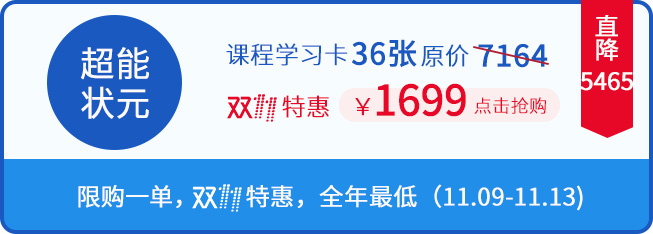
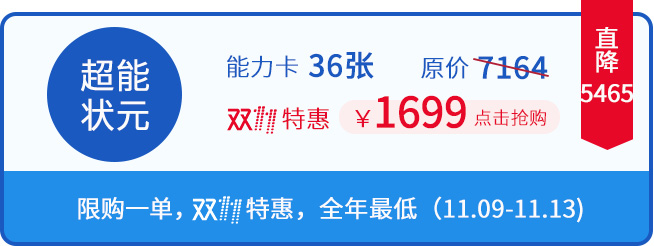
update: 文案和图片

diff --git a/containers/learncard/BuyCard.js b/containers/learncard/BuyCard.js
@@ -9,15 +9,15 @@ export default class extends React.Component {
       <Layout>
         <div className='out'>
           <div className='buy-card-page'>
-            <h1 className='header'>邀请好友购买，免费再得学习卡</h1>
-            <p className='red-content'>1.09 -11.13 期间，成功购买学习卡后，享专属权利------邀请好友成功购买任意学习卡，马上获得 1 张课程学习卡（原价 ¥199），多邀多得！</p>
+            <h1 className='header'>邀请好友购买，免费再得能力卡</h1>
+            <p className='red-content'>1.09 -11.13 期间，成功购买能力卡后，享专属权利------邀请好友成功购买任意能力卡，马上获得 1 张课程能力卡（原价 ¥199），多邀多得！</p>
             <p className='main-content'>*好友购买时在推荐人一栏填写你的手机号即可。</p>
             <div className='share-button'>
-              <Button half text={'立即邀请好友'} color={'white'} bg={ThemeConfig.color.blue} onClick={() => { this.props.setPopContent('1') }} />
+              <Button text={'立即邀请好友'} color={'white'} bg={ThemeConfig.color.blue} onClick={() => { this.props.setPopContent('1') }} />
             </div>
-            <h1 className='header'>低至3折，购买任一学习卡即可<br />获得邀请权限</h1>
+            <h1 className='header'>低至2.3折，购买任一能力卡即可获得邀请权限</h1>
             <div className='main-content'>
-              <p>小灶学习卡可以兑换2018年小灶能力学院的课程，小伙伴可以根据兴趣和需求，选择购买相应的学习卡。</p>
+              <p>小灶能力卡可以兑换2018年小灶能力学院的课程，小伙伴可以根据兴趣和需求，选择购买相应的能力卡。</p>
             </div>
             <div className='button-list'>
               <span onClick={() => { this.props.setPopContent('0') }}>{`>>购卡小指南`}</span>
@@ -27,7 +27,7 @@ export default class extends React.Component {
             </div>
             <div className='list'>{this.renderLearnCardList()}</div>
             <div className='my-card'>
-              <span onClick={() => { this.goRouter('/ucenter/studycard') }}>{`查看我已获得的学习卡>`}</span>
+              <span onClick={() => { this.goRouter('/ucenter/studycard') }}>{`查看我已获得的能力卡>`}</span>
             </div>
           </div>
         </div>

diff --git a/pages/learncard/index.js b/pages/learncard/index.js
@@ -67,7 +67,7 @@ export default class extends React.Component {
           {this.setShare()}
           <div className='header'>
             <div className={classNames('tab', {current: current === '1'})} onClick={() => { this.onChange('1') }}>课程体验</div>
-            <div className={classNames('tab', {current: current === '2'})} onClick={() => { this.onChange('2') }}>小灶学习卡</div>
+            <div className={classNames('tab', {current: current === '2'})} onClick={() => { this.onChange('2') }}>小灶能力卡</div>
           </div>
           {current === '1' && <Experience />}
           {current === '2' && <BuyCard setPopContent={this.setPopContent} />}
